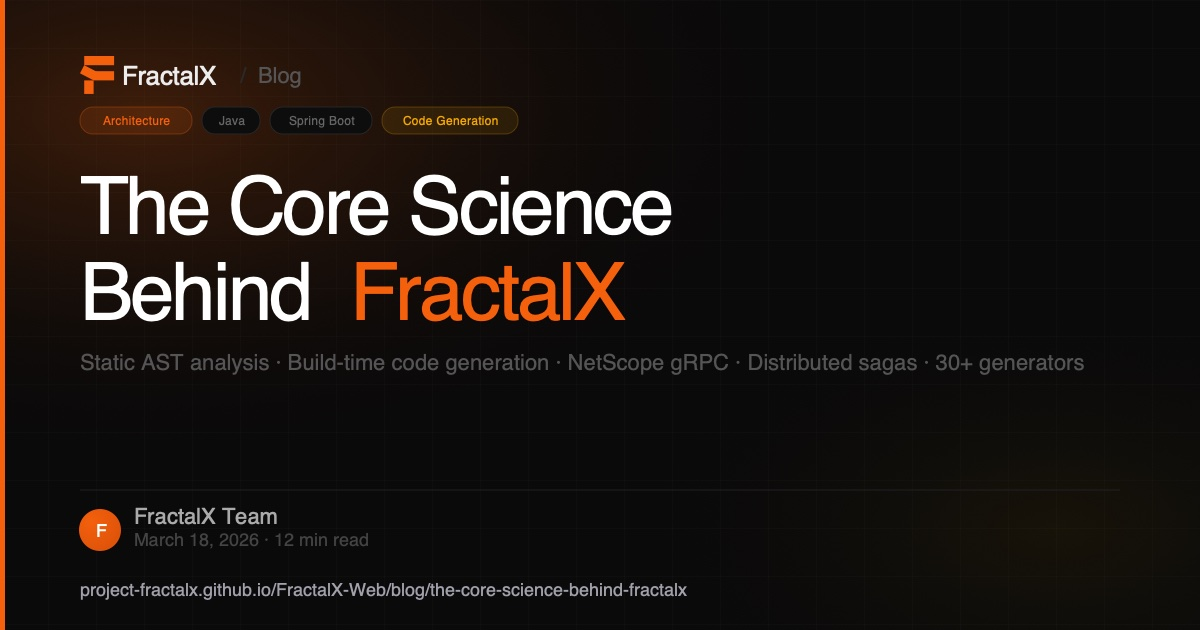
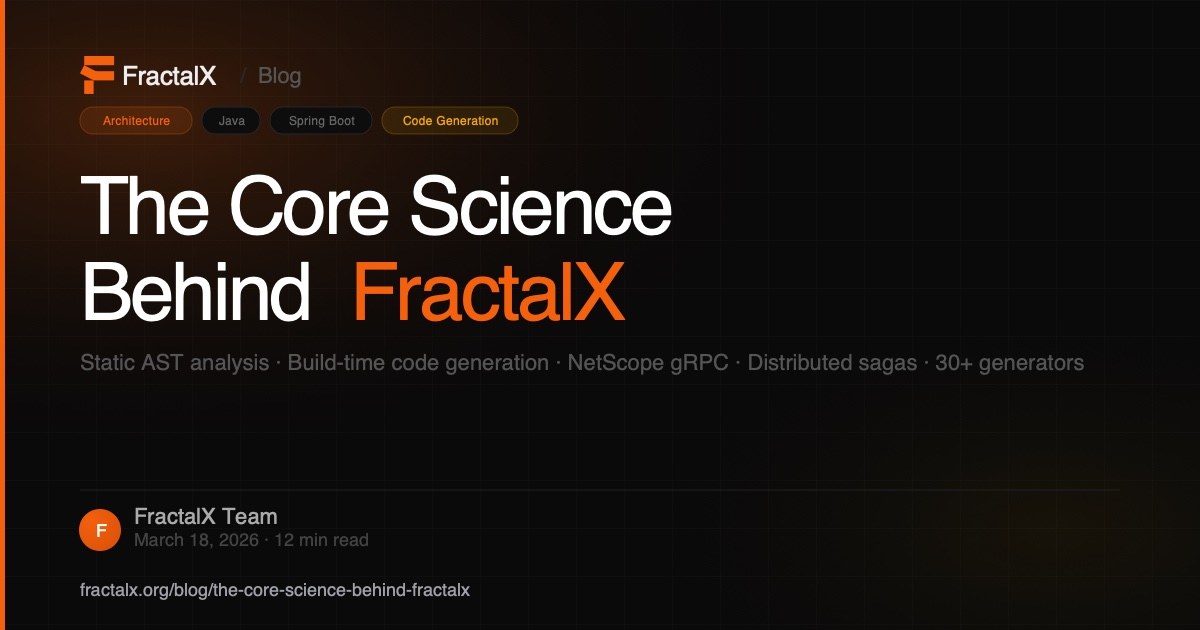
feat: update canonical and Open Graph URLs to use the new domain for improved consistency

Changed region(s): [[0.0617, 0.9048, 0.5858, 0.9651]]

diff --git a/blog/the-core-science-behind-fractalx/index.html b/blog/the-core-science-behind-fractalx/index.html
@@ -8,7 +8,7 @@
     <meta name="keywords" content="FractalX, AST analysis, code generation, Spring Boot microservices, gRPC, distributed saga, Resilience4j, Java monolith decomposition"/>
     <meta name="author" content="FractalX Team"/>
     <meta name="robots" content="index, follow"/>
-    <link rel="canonical" href="https://project-fractalx.github.io/FractalX-Web/blog/the-core-science-behind-fractalx/"/>
+    <link rel="canonical" href="https://fractalx.org/blog/the-core-science-behind-fractalx/"/>
 
     <!-- Favicon -->
     <link rel="icon" type="image/x-icon" href="/favicon.ico"/>
@@ -23,8 +23,8 @@
     <meta property="og:site_name" content="FractalX"/>
     <meta property="og:title" content="The Core Science Behind FractalX"/>
     <meta property="og:description" content="A deep dive into static AST analysis and build-time code generation — how FractalX automates the full decomposition of Spring Boot monoliths into production-ready microservices."/>
-    <meta property="og:url" content="https://project-fractalx.github.io/FractalX-Web/blog/the-core-science-behind-fractalx/"/>
-    <meta property="og:image" content="https://project-fractalx.github.io/FractalX-Web/assets/og/blog-core-science.jpg"/>
+    <meta property="og:url" content="https://fractalx.org/blog/the-core-science-behind-fractalx/"/>
+    <meta property="og:image" content="https://fractalx.org/assets/og/blog-core-science.jpg"/>
     <meta property="og:image:type" content="image/jpeg"/>
     <meta property="og:image:width" content="1200"/>
     <meta property="og:image:height" content="630"/>
@@ -40,7 +40,7 @@
     <meta name="twitter:card" content="summary_large_image"/>
     <meta name="twitter:title" content="The Core Science Behind FractalX"/>
     <meta name="twitter:description" content="A deep dive into static AST analysis and build-time code generation — how FractalX automates the full decomposition of Spring Boot monoliths into production-ready microservices."/>
-    <meta name="twitter:image" content="https://project-fractalx.github.io/FractalX-Web/assets/og/blog-core-science.jpg"/>
+    <meta name="twitter:image" content="https://fractalx.org/assets/og/blog-core-science.jpg"/>
 
     <link rel="preconnect" href="https://fonts.googleapis.com">
     <link href="https://fonts.googleapis.com/css2?family=Geist:wght@300;400;500;600;700;800;900&family=Geist+Mono:wght@400;500&display=swap" rel="stylesheet">
@@ -881,7 +881,7 @@ docker-compose up --build</code></pre>
                                 <span class="fc-ameta">March 18, 2026 &nbsp;&middot;&nbsp; 12 min read</span>
                             </div>
                         </div>
-                        <div class="fc-url">project-fractalx.github.io/FractalX-Web/blog</div>
+                        <div class="fc-url">fractalx.org/blog</div>
                     </div>
                 </div>
 
@@ -995,7 +995,7 @@ docker-compose up --build</code></pre>
     }
 
     /* ── SHARE URLS ── */
-    const POST_URL = 'https://project-fractalx.github.io/FractalX-Web/blog/the-core-science-behind-fractalx/';
+    const POST_URL = 'https://fractalx.org/blog/the-core-science-behind-fractalx/';
     const POST_TITLE = 'The Core Science Behind FractalX';
     const POST_DESC = 'A deep dive into static AST analysis and build-time code generation — how FractalX automates the decomposition of Spring Boot monoliths into production-ready microservices.';
 
@@ -1185,7 +1185,7 @@ docker-compose up --build</code></pre>
         ctx.fillStyle = T.url;
         ctx.font = `400 ${10*s}px 'Geist Mono', monospace`;
         const urlY = isWide ? 598*s : 1040*s;
-        ctx.fillText('project-fractalx.github.io/FractalX-Web/blog/the-core-science-behind-fractalx', titleX, urlY);
+        ctx.fillText('fractalx.org/blog/the-core-science-behind-fractalx', titleX, urlY);
 
         /* download */
         const link = document.createElement('a');

diff --git a/index.html b/index.html
@@ -7,7 +7,7 @@
     <meta name="description" content="FractalX is an open-source static decomposition framework that converts modular Spring Boot monoliths into production-ready microservice platforms via AST analysis and build-time code generation."/>
     <meta name="keywords" content="FractalX, microservices, Spring Boot, Java, monolith decomposition, AST analysis, code generation, gRPC, Maven plugin, open source"/>
     <meta name="robots" content="index, follow"/>
-    <link rel="canonical" href="https://project-fractalx.github.io/FractalX-Web/"/>
+    <link rel="canonical" href="https://fractalx.org/"/>
 
     <!-- Favicon -->
     <link rel="icon" type="image/x-icon" href="/favicon.ico"/>
@@ -22,8 +22,8 @@
     <meta property="og:site_name" content="FractalX"/>
     <meta property="og:title" content="FractalX - Monolith to Microservices, One Command"/>
     <meta property="og:description" content="Open-source static decomposition framework for Spring Boot. Add three annotations, run one Maven command, get a fully wired microservice platform."/>
-    <meta property="og:url" content="https://project-fractalx.github.io/FractalX-Web/"/>
-    <meta property="og:image" content="https://project-fractalx.github.io/FractalX-Web/assets/og/home.svg"/>
+    <meta property="og:url" content="https://fractalx.org/"/>
+    <meta property="og:image" content="https://fractalx.org/assets/og/home.svg"/>
     <meta property="og:image:width" content="1200"/>
     <meta property="og:image:height" content="630"/>
     <meta property="og:image:alt" content="FractalX - Monolith to Microservices, One Command"/>
@@ -32,7 +32,7 @@
     <meta name="twitter:card" content="summary_large_image"/>
     <meta name="twitter:title" content="FractalX - Monolith to Microservices, One Command"/>
     <meta name="twitter:description" content="Open-source static decomposition framework for Spring Boot. Add three annotations, run one Maven command, get a fully wired microservice platform."/>
-    <meta name="twitter:image" content="https://project-fractalx.github.io/FractalX-Web/assets/og/home.svg"/>
+    <meta name="twitter:image" content="https://fractalx.org/assets/og/home.svg"/>
 
     <link rel="preconnect" href="https://fonts.googleapis.com">
     <link href="https://fonts.googleapis.com/css2?family=Geist:wght@300;400;500;600;700;800;900&family=Geist+Mono:wght@400;500&display=swap" rel="stylesheet">

diff --git a/docs/index.html b/docs/index.html
@@ -7,7 +7,7 @@
     <meta name="description" content="Complete documentation for FractalX — installation, annotations reference, NetScope gRPC, distributed sagas, Resilience4j, Docker deployment, and the Maven plugin."/>
     <meta name="keywords" content="FractalX docs, Spring Boot microservices, @DecomposableModule, NetScope, distributed saga, Maven plugin, Java decomposition"/>
     <meta name="robots" content="index, follow"/>
-    <link rel="canonical" href="https://project-fractalx.github.io/FractalX-Web/docs/"/>
+    <link rel="canonical" href="https://fractalx.org/docs/"/>
 
     <!-- Favicon -->
     <link rel="icon" type="image/x-icon" href="/favicon.ico"/>
@@ -22,8 +22,8 @@
     <meta property="og:site_name" content="FractalX"/>
     <meta property="og:title" content="FractalX Docs — Static Decomposition Framework for Spring Boot"/>
     <meta property="og:description" content="Complete documentation for FractalX — annotations reference, NetScope gRPC, distributed sagas, Resilience4j, Docker deployment, and Maven plugin."/>
-    <meta property="og:url" content="https://project-fractalx.github.io/FractalX-Web/docs/"/>
-    <meta property="og:image" content="https://project-fractalx.github.io/FractalX-Web/assets/og/home.svg"/>
+    <meta property="og:url" content="https://fractalx.org/docs/"/>
+    <meta property="og:image" content="https://fractalx.org/assets/og/home.svg"/>
     <meta property="og:image:width" content="1200"/>
     <meta property="og:image:height" content="630"/>
 
@@ -31,7 +31,7 @@
     <meta name="twitter:card" content="summary_large_image"/>
     <meta name="twitter:title" content="FractalX Docs — Static Decomposition Framework for Spring Boot"/>
     <meta name="twitter:description" content="Complete documentation for FractalX — annotations reference, NetScope gRPC, distributed sagas, Resilience4j, Docker deployment, and Maven plugin."/>
-    <meta name="twitter:image" content="https://project-fractalx.github.io/FractalX-Web/assets/og/home.svg"/>
+    <meta name="twitter:image" content="https://fractalx.org/assets/og/home.svg"/>
 
     <link rel="preconnect" href="https://fonts.googleapis.com">
     <link href="https://fonts.googleapis.com/css2?family=Geist:wght@300;400;500;600;700&family=Geist+Mono:wght@400;500&display=swap" rel="stylesheet">

diff --git a/blog/index.html b/blog/index.html
@@ -7,7 +7,7 @@
     <meta name="description" content="Technical deep-dives, architecture guides, and updates from the FractalX team on building the open-source static decomposition framework for Spring Boot."/>
     <meta name="keywords" content="FractalX blog, microservices, Spring Boot, Java architecture, code generation, open source"/>
     <meta name="robots" content="index, follow"/>
-    <link rel="canonical" href="https://project-fractalx.github.io/FractalX-Web/blog/"/>
+    <link rel="canonical" href="https://fractalx.org/blog/"/>
 
     <!-- Favicon -->
     <link rel="icon" type="image/x-icon" href="/favicon.ico"/>
@@ -22,8 +22,8 @@
     <meta property="og:site_name" content="FractalX"/>
     <meta property="og:title" content="Blog — FractalX"/>
     <meta property="og:description" content="Technical deep-dives, architecture guides, and updates from the FractalX team on building the open-source static decomposition framework for Spring Boot."/>
-    <meta property="og:url" content="https://project-fractalx.github.io/FractalX-Web/blog/"/>
-    <meta property="og:image" content="https://project-fractalx.github.io/FractalX-Web/assets/og/blog.svg"/>
+    <meta property="og:url" content="https://fractalx.org/blog/"/>
+    <meta property="og:image" content="https://fractalx.org/assets/og/blog.svg"/>
     <meta property="og:image:width" content="1200"/>
     <meta property="og:image:height" content="630"/>
     <meta property="og:image:alt" content="FractalX Blog — From the FractalX Team"/>
@@ -32,7 +32,7 @@
     <meta name="twitter:card" content="summary_large_image"/>
     <meta name="twitter:title" content="Blog — FractalX"/>
     <meta name="twitter:description" content="Technical deep-dives, architecture guides, and updates from the FractalX team on building the open-source static decomposition framework for Spring Boot."/>
-    <meta name="twitter:image" content="https://project-fractalx.github.io/FractalX-Web/assets/og/blog.svg"/>
+    <meta name="twitter:image" content="https://fractalx.org/assets/og/blog.svg"/>
 
     <link rel="preconnect" href="https://fonts.googleapis.com">
     <link href="https://fonts.googleapis.com/css2?family=Geist:wght@300;400;500;600;700;800;900&family=Geist+Mono:wght@400;500&display=swap" rel="stylesheet">

diff --git a/privacy/index.html b/privacy/index.html
@@ -6,7 +6,7 @@
     <title>Privacy Policy — FractalX</title>
     <meta name="description" content="Privacy Policy for FractalX — the open-source static decomposition framework for Spring Boot applications. No telemetry, no tracking, runs entirely on your machine."/>
     <meta name="robots" content="index, follow"/>
-    <link rel="canonical" href="https://project-fractalx.github.io/FractalX-Web/privacy/"/>
+    <link rel="canonical" href="https://fractalx.org/privacy/"/>
 
     <!-- Favicon -->
     <link rel="icon" type="image/x-icon" href="/favicon.ico"/>
@@ -21,8 +21,8 @@
     <meta property="og:site_name" content="FractalX"/>
     <meta property="og:title" content="Privacy Policy — FractalX"/>
     <meta property="og:description" content="FractalX collects no data. The tool runs entirely on your machine and sends no telemetry."/>
-    <meta property="og:url" content="https://project-fractalx.github.io/FractalX-Web/privacy/"/>
-    <meta property="og:image" content="https://project-fractalx.github.io/FractalX-Web/assets/og/home.svg"/>
+    <meta property="og:url" content="https://fractalx.org/privacy/"/>
+    <meta property="og:image" content="https://fractalx.org/assets/og/home.svg"/>
 
     <link rel="preconnect" href="https://fonts.googleapis.com">
     <link href="https://fonts.googleapis.com/css2?family=Geist:wght@300;400;500;600;700;800;900&family=Geist+Mono:wght@400;500&display=swap" rel="stylesheet">

diff --git a/terms/index.html b/terms/index.html
@@ -6,7 +6,7 @@
     <title>Terms and Conditions — FractalX</title>
     <meta name="description" content="Terms and Conditions for FractalX — the open-source static decomposition framework for Spring Boot applications, licensed under Apache 2.0."/>
     <meta name="robots" content="index, follow"/>
-    <link rel="canonical" href="https://project-fractalx.github.io/FractalX-Web/terms/"/>
+    <link rel="canonical" href="https://fractalx.org/terms/"/>
 
     <!-- Favicon -->
     <link rel="icon" type="image/x-icon" href="/favicon.ico"/>
@@ -21,8 +21,8 @@
     <meta property="og:site_name" content="FractalX"/>
     <meta property="og:title" content="Terms and Conditions — FractalX"/>
     <meta property="og:description" content="Terms and Conditions for FractalX — open-source under Apache 2.0."/>
-    <meta property="og:url" content="https://project-fractalx.github.io/FractalX-Web/terms/"/>
-    <meta property="og:image" content="https://project-fractalx.github.io/FractalX-Web/assets/og/home.svg"/>
+    <meta property="og:url" content="https://fractalx.org/terms/"/>
+    <meta property="og:image" content="https://fractalx.org/assets/og/home.svg"/>
 
     <link rel="preconnect" href="https://fonts.googleapis.com">
     <link href="https://fonts.googleapis.com/css2?family=Geist:wght@300;400;500;600;700;800;900&family=Geist+Mono:wght@400;500&display=swap" rel="stylesheet">
